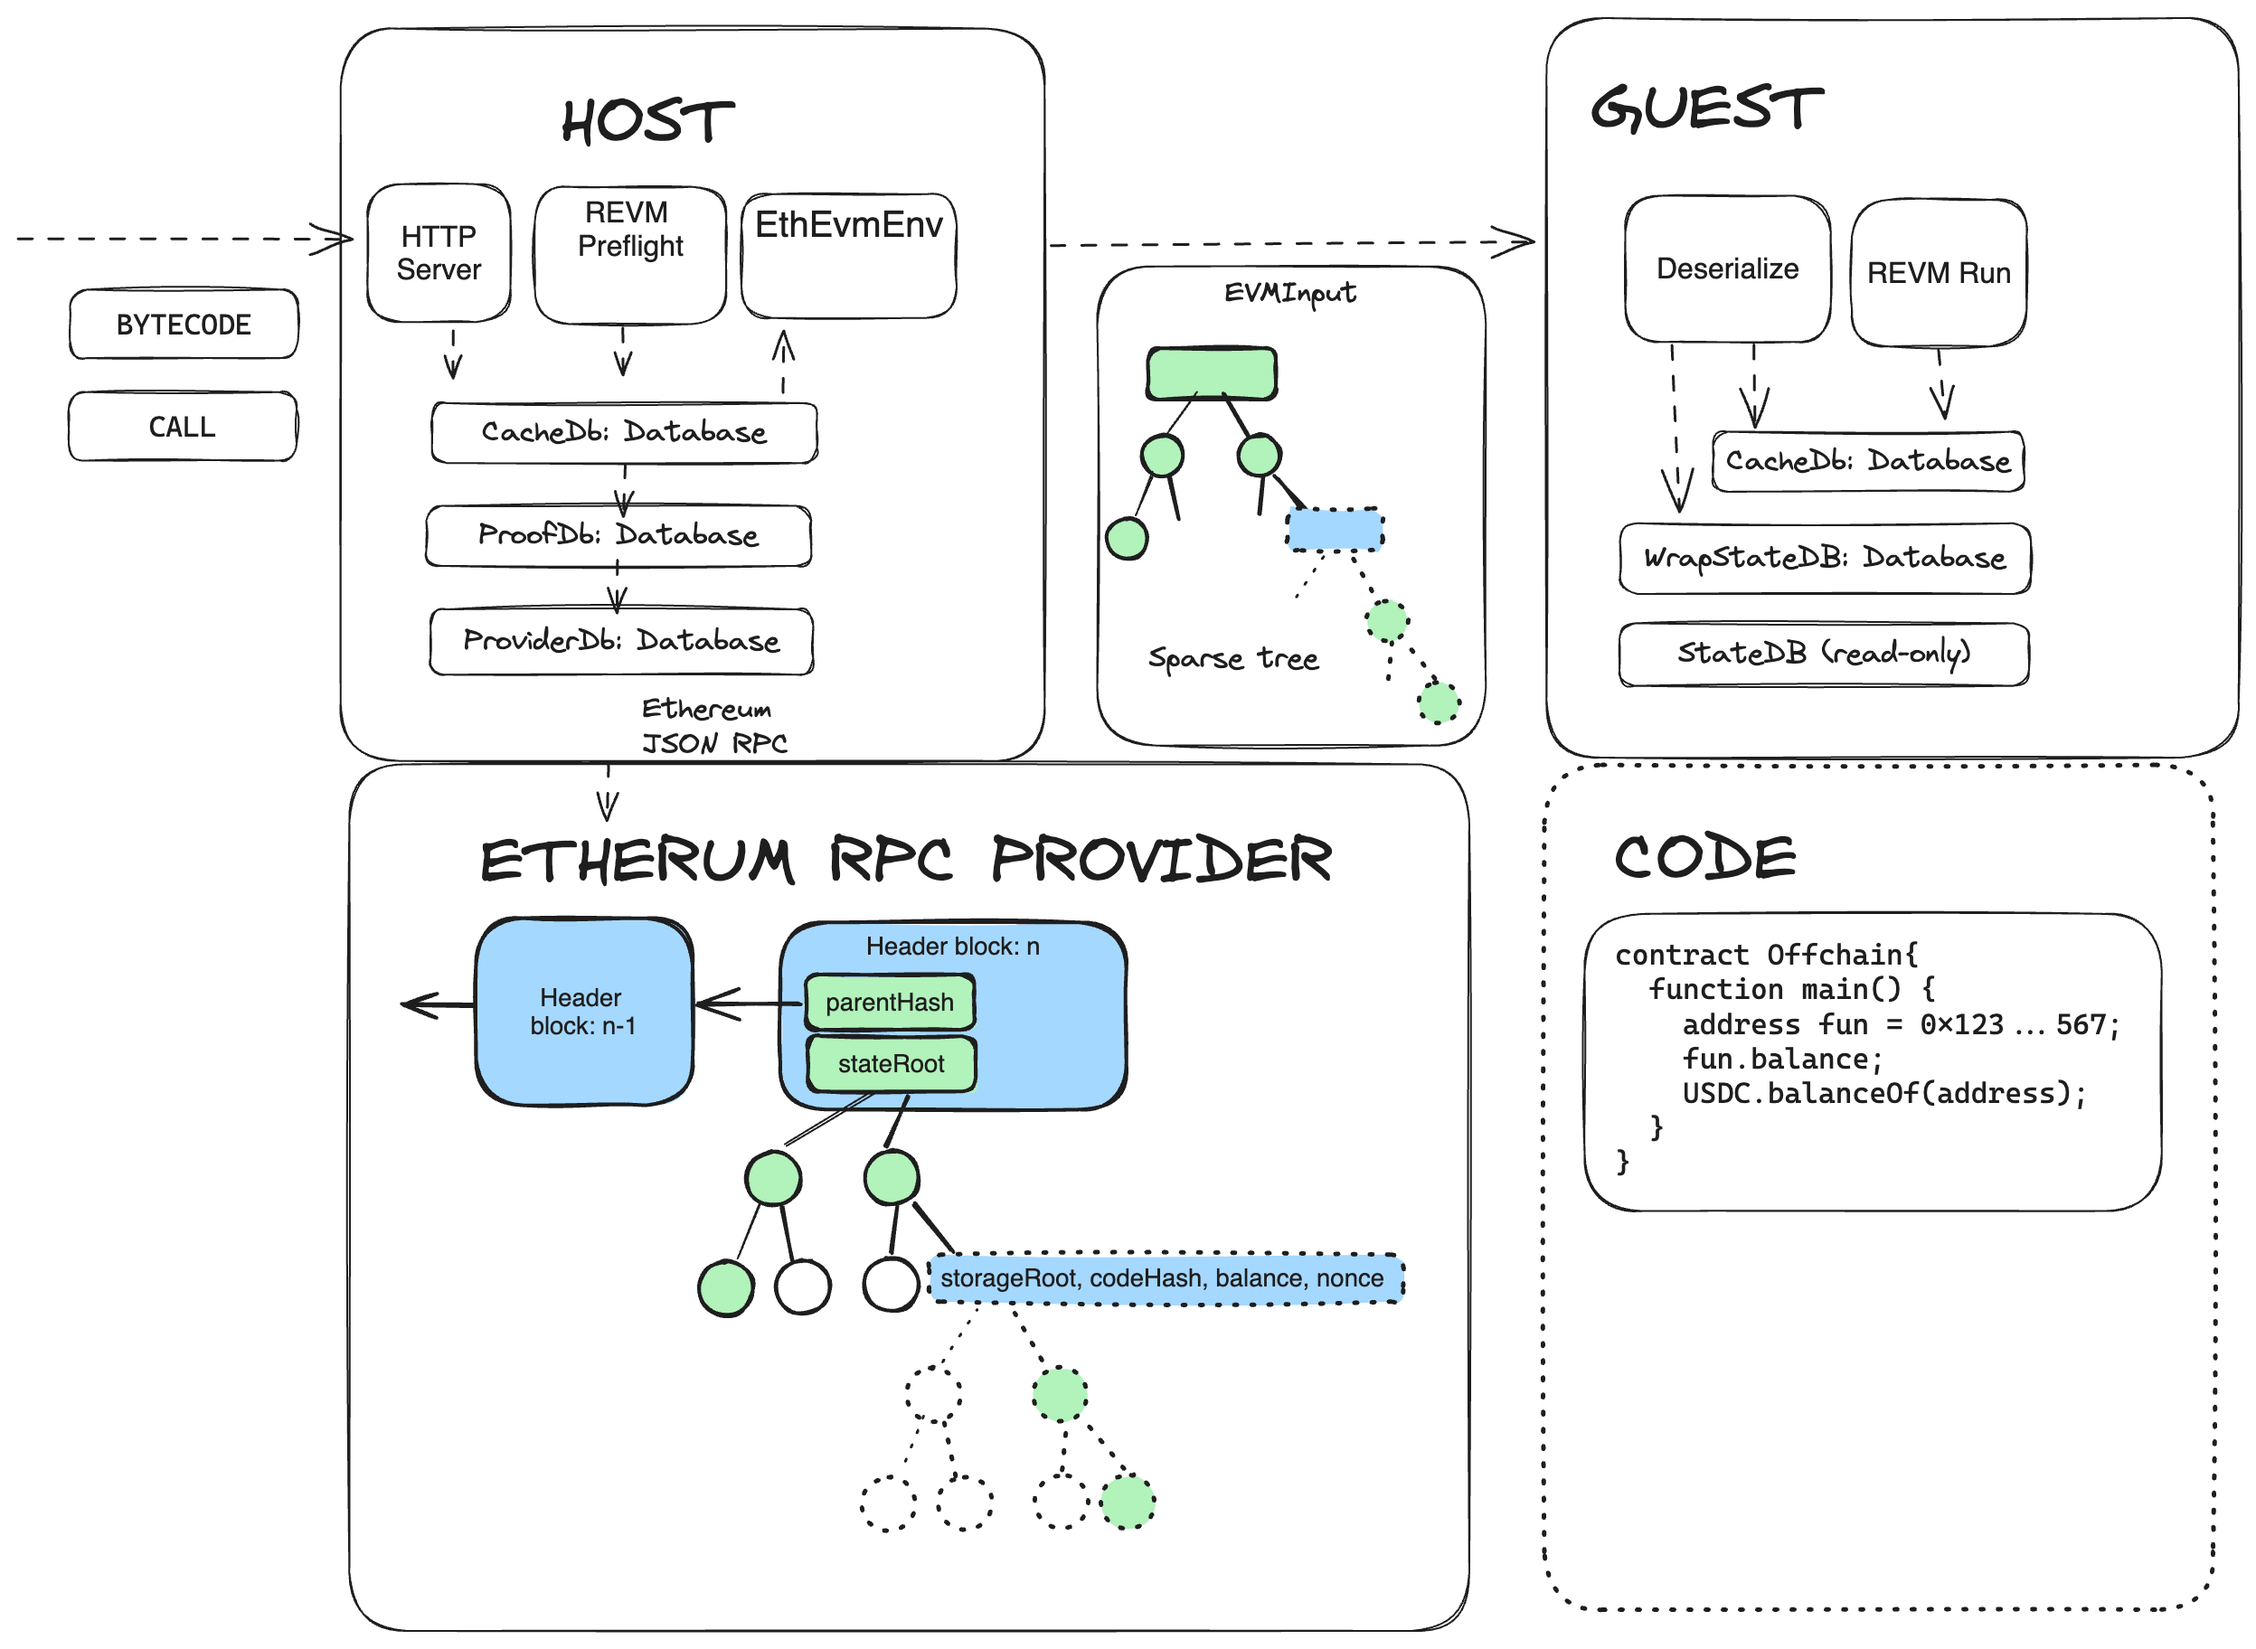
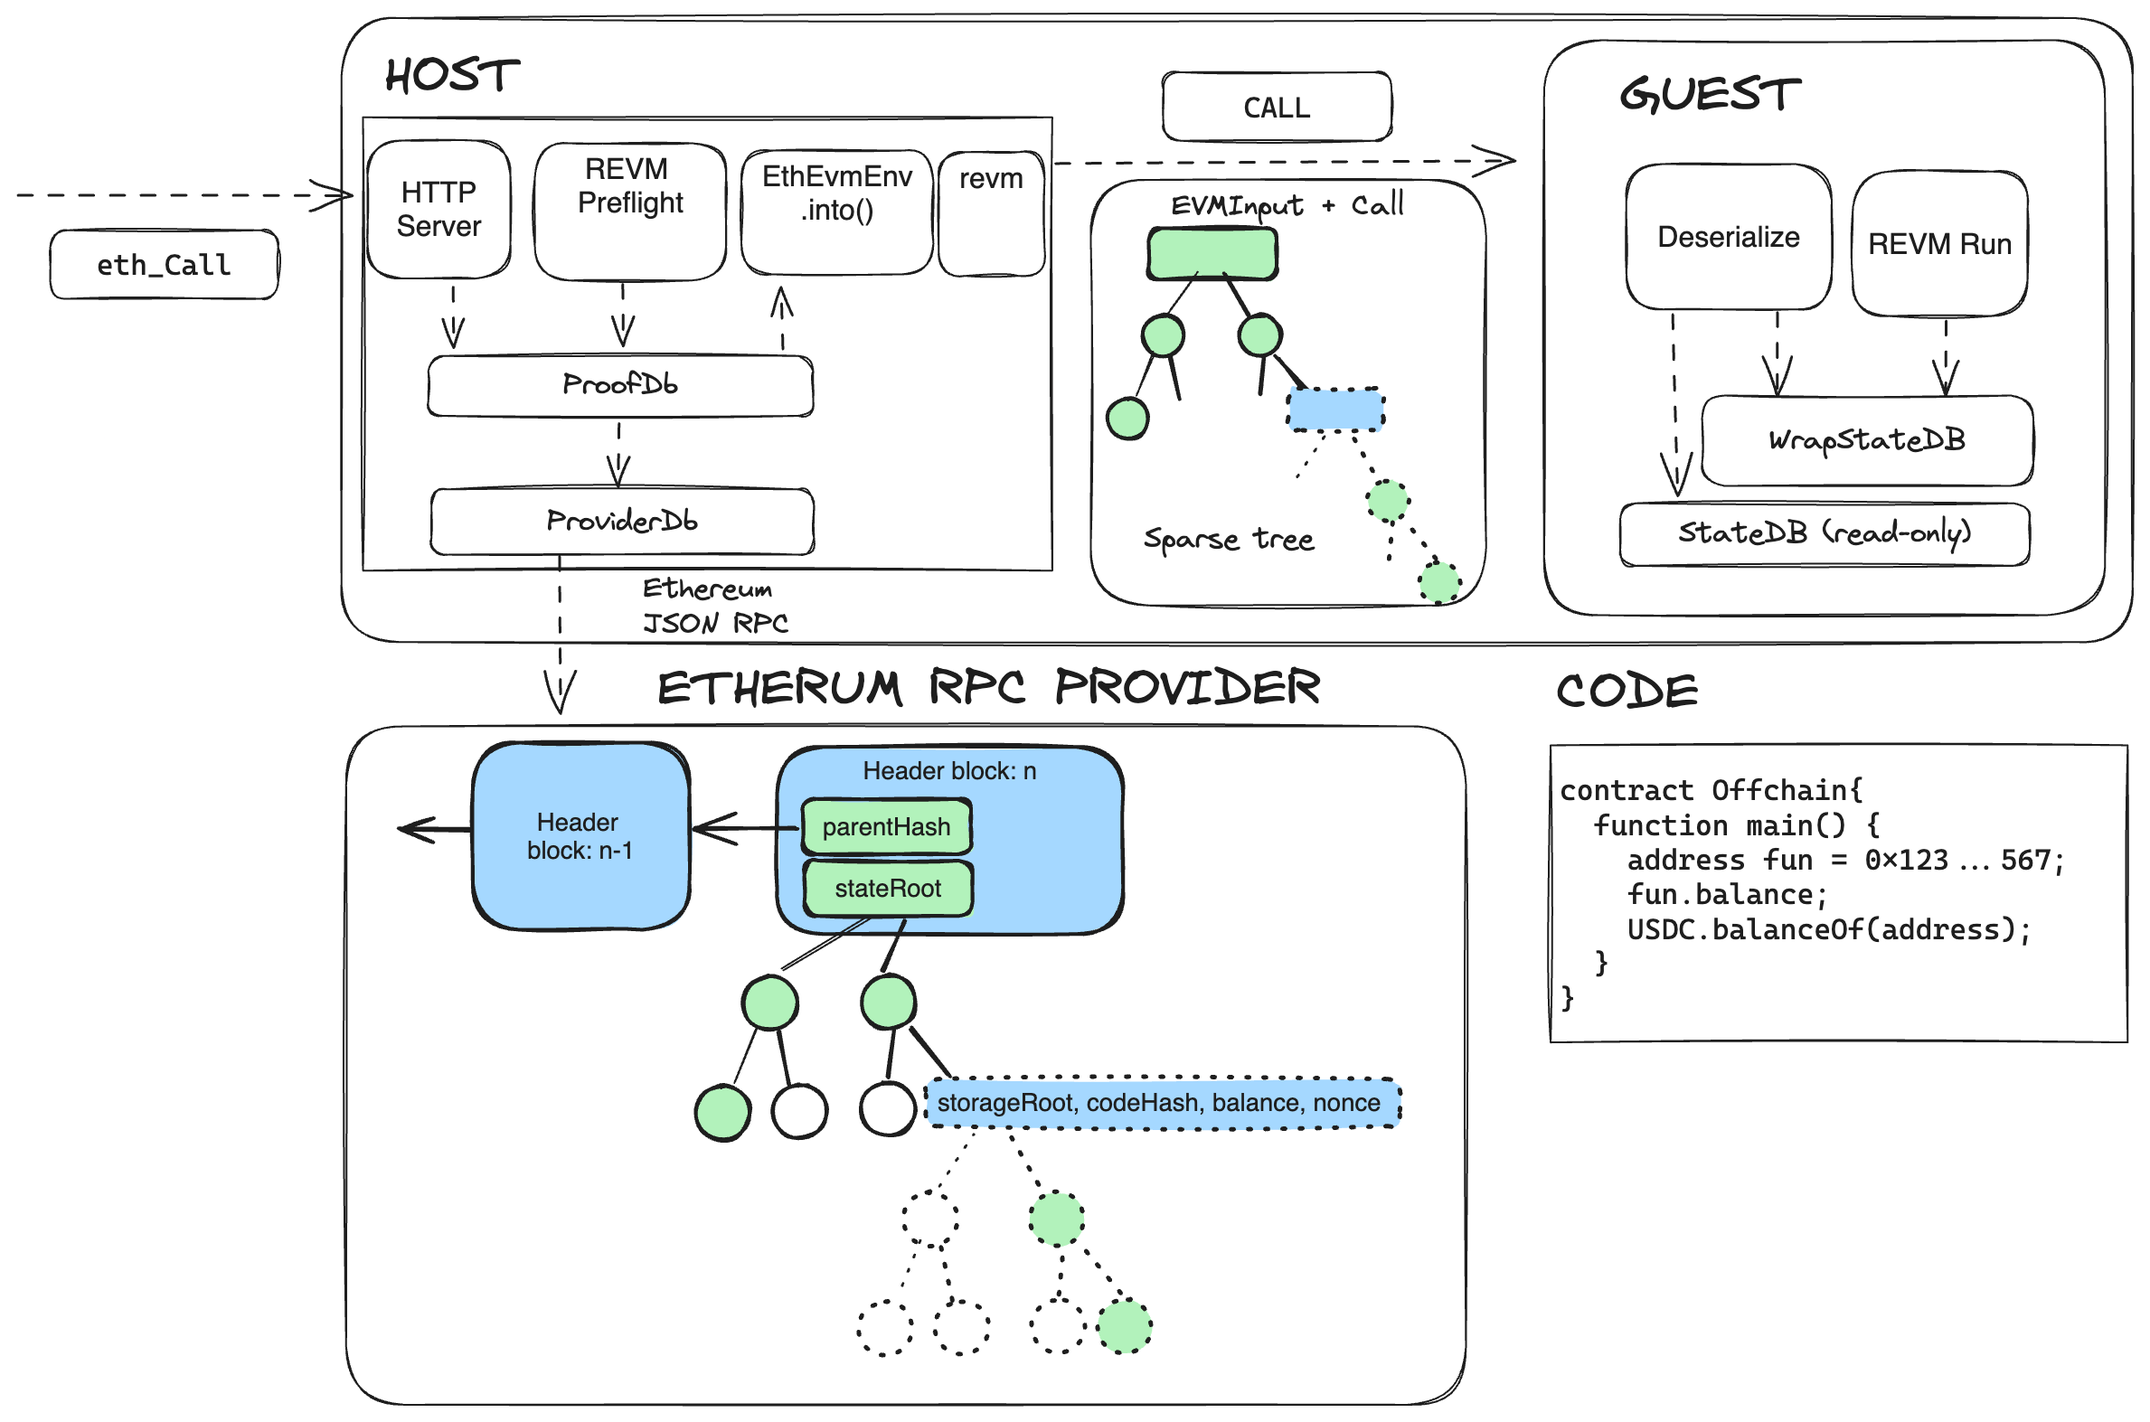
README: Add info about deserialization and verification of data; updated diagram

Changed region(s): [[0.0311, 0.0, 0.9958, 0.9968], [0.6224, 0.4984, 0.6535, 0.5296]]

diff --git a/README.md b/README.md
@@ -90,7 +90,9 @@ Note that solidity execution is deterministic, hence database in the guest has e
 We have two different databases run in two different places. Each is a composite database:
 
 - **host** - runs ProofDb, which proxies queries to ProviderDb. In turn, ProviderDb forwards the call to Ethereum RPC provider. Finally, ProofDb stores information about what proofs will need to be generated for the guest.
-- **guest** - runs WrapStateDb, which proxies calls to StateDb. StateDb consists of state passed from the host and has only the content required to be used by deterministic execution of solidity code in guest. WrapStateDb is an [adapter](https://en.wikipedia.org/wiki/Adapter_pattern) for StateDb that implements Database trait.
+- **guest** - runs WrapStateDb, which proxies calls to StateDb. 
+  - StateDb consists of state passed from the host and has only the content required to be used by deterministic execution of solidity code in guest. Data in the StateDb is stored as sparse Ethereum Merkle Patricia Tries, hence access to accounts and storage serves as veryfication of state and storage proofs.
+  -  WrapStateDb is an [adapter](https://en.wikipedia.org/wiki/Adapter_pattern) for StateDb that implements Database trait. It additionally do caching of accounts, for quering storage, so that account is only fetched once for multiple storage queries.
 
 ```mermaid
 classDiagram
@@ -166,6 +168,13 @@ The block header type might vary on different sidechains and L2s. Currently, `Et
 The environment is created in the host and converted into `EvmInput`, which is easy to serialize. Serialized data is then sent over standard input to the guest and deserialized in the guest. `EthEvmInput` is an `EvmInput` specialized by `EthBlockHeader`.
 
 `EvmInput` stores state and storage trees as sparse Ethereum Merkle Patricia Trie implemented by `MPT` structures witch is a wrapped Node. Sparse tree is very similar to standard MPT in that it includes four standard node types, however it only data necessary to execution and in place of unused nodes uses special node called `Digest`.
+
+Data is deserialized by host with `EVMInput.into_env()` function. Additonally, this method verifies header hashes (current and ancestors). `StateDb::new` calculates bytecodes hashes and storage roots.
+
+Hence, validation of data corectness is split between:
+- `MPT` function calls - merkle proofs of state and storage
+- `EVMInput.into_env()` - blocks hashes
+- `StateDb::new ` - bytecodes hashes and storage roots
 
 ```mermaid
 classDiagram
